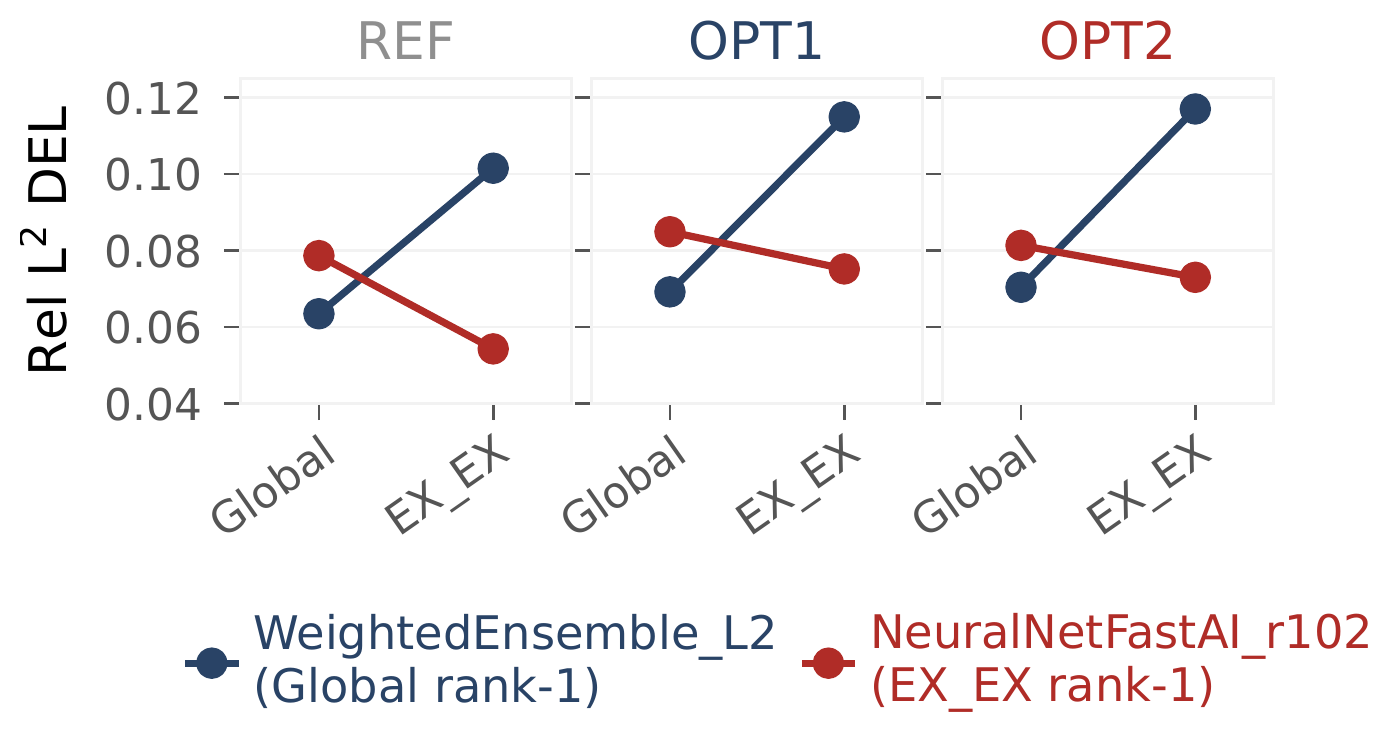
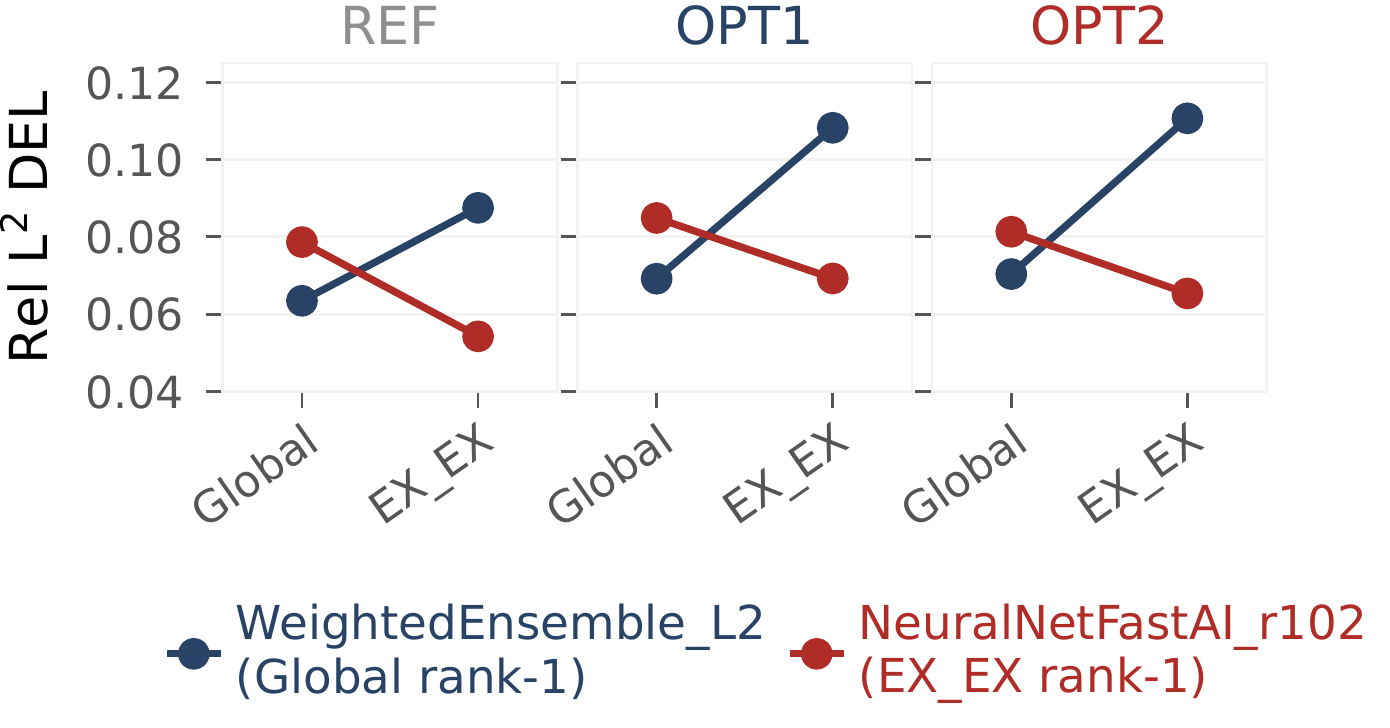
Partition sweep with alpha 1; README results for dataset v1.1
- Add alpha = 1 to the one-at-a-time partition sweep: the first value
  above the stable range [0.05, 0.3] that changes the labels (14 test
  simulations at the interior 17.5 m/s wind level enter EX_EX).
- The boundary tolerance is in standardized units (docstring and log).
- README: expected values of the analyses and the headline ranks for
  the standardized partition of dataset v1.1; crossover and partition
  figures redrawn from the same results.

Claude-Session: https://claude.ai/code/session_01MxosLyWuifHFzhZHWA7uwp

diff --git a/floatbench/analysis/partition.py b/floatbench/analysis/partition.py
@@ -40,7 +40,7 @@ PAPER_PARTITION = {
 
 # One-at-a-time sweeps around PAPER_PARTITION.
 PARTITION_SWEEPS = {
-    "alpha": [0.05, 0.075, 0.1, 0.15, 0.2, 0.3, 10.0],
+    "alpha": [0.05, 0.075, 0.1, 0.15, 0.2, 0.3, 1.0, 10.0],
     "edge": [0.25, 0.375, 0.5, 0.75, 1.0],
     "offset_mult": [0.0, 0.5, 1.0, 1.5, 2.0],
     "scale_stat": ["mean", "median"],
@@ -215,7 +215,8 @@ def boundary_tolerance(train_sims: pd.DataFrame,
         test_sims: Test simulations (one row per ``sim_id``).
 
     Returns:
-        ``{"wind": epsilon, "wave": epsilon}`` in original units.
+        ``{"wind": epsilon, "wave": epsilon}`` in standardized units, the
+        units of the hull distance.
     """
     grouper, _ = fit_released_grouper(train_sims, test_sims)
     edge = PAPER_PARTITION["edge"]

diff --git a/scripts/analyses/split_sensitivity/run.py b/scripts/analyses/split_sensitivity/run.py
@@ -97,7 +97,7 @@ def main(_) -> None:
     train, test = partition.load_sims(FLAGS.data_dir, FLAGS.tower)
     eps = partition.boundary_tolerance(train, test)
     logging.info(
-        "Boundary tolerance epsilon: wind %.3f, wave %.3f (original "
+        "Boundary tolerance epsilon: wind %.3f, wave %.3f (standardized "
         "units)", eps["wind"], eps["wave"])
 
     rows, base = [], None

diff --git a/README.md b/README.md
@@ -420,8 +420,9 @@ depend on the units:
   (default 1.0) scales $\varepsilon$.
 - **Spacing statistic** `scale_stat="mean"`.
 
-Dataset v1.0 fitted the hull and measured the boundary distance in the
-original feature units while $\varepsilon$ used the standardized
+Dataset v1.1 (current release) uses this partition. Dataset v1.0
+fitted the hull and measured the boundary distance in the original
+feature units while $\varepsilon$ used the standardized
 spacing. That partition is kept as `boundary_space="original"`
 (`--boundary_space=original` in `scripts/split/config.cfg`) to
 reproduce the v1.0 labels exactly. The two partitions differ in 98 of
@@ -484,13 +485,13 @@ In the table, `<name>` stands for
 | Analysis | Command | Main outputs and expected values |
 | --- | --- | --- |
 | Condition-level bootstrap: top-10 CIs and paired rank-1 vs rank-2 | `cluster_bootstrap` | `cluster_top10.csv`, `paired_top2.csv`. Paired interval above zero on 6 of 9 groups; tied on E2 REF $[-0.0008, 0.0010]$, E1 OPT1, E3 REF+OPT2→OPT1. Row-level std smaller by a median 4.8× / 8.3× / 4.2× (E1 / E2 / E3). |
-| Partition label stability | `split_sensitivity` | `sensitivity_results.csv`: 100% reproduction of the released labels, $\varepsilon$ = 0.049 (wind) / 0.021 (wave); agreement ≥ 97.9% and EX_EX Jaccard ≥ 0.90 for $\alpha \in [0.05, 0.3]$; tolerance removed: 254 → 361 EX_EX simulations. |
-| Crossover over the 15 partition variants | `ranking_stability` | `summary.csv`: crossover 15/15 on every tower and metric; ensemble EX_EX rank 23 / 11 / 11 (Rel L² DEL); EX_EX rank-1 `NeuralNetFastAI_r102_BAG_L1` at global ranks 79 / 73 / 69; min Kendall τ 0.89 / 0.90 / 0.92. |
+| Partition label stability | `split_sensitivity` | `sensitivity_results.csv`: 100% reproduction of the released v1.1 labels, $\varepsilon$ = 0.049 (wind) / 0.021 (wave) in standardized units; labels unchanged for $\alpha \in [0.05, 0.3]$; $\alpha = 1$ adds 14 simulations to EX_EX (216 → 230); tolerance removed: 216 → 340 EX_EX simulations. |
+| Crossover over the 16 partition variants | `ranking_stability` | `summary.csv`: crossover 16/16 on every tower and metric; ensemble EX_EX rank 21 / 11 / 13 (Rel L² DEL); EX_EX rank-1 `NeuralNetFastAI_r102_BAG_L1` at global ranks 79 / 73 / 69; min Kendall τ 0.87 / 0.82 / 0.82. |
 | Alternative held-out grids | `grid_variants_split`, then **trains** (below), then `grid_variants` with `--variant=A` and `--variant=B` | `summary_{A,B}.csv`: grid A EX_EX rank 20 / 37 of the global rank-1; grid B deep corner ensemble rank 7 / 9, rank-1 `NeuralNetFastAI_r191_BAG_L1` (0.0744 / 0.932). |
 | Condition-grouped random split | `grouped_random_split`, then **trains** (below), then `grouped_random` | 78.6% seed sharing in E1; `summary.csv`: ensemble Rel L² DEL 0.0191 (E1) vs 0.0198 (grouped, 0.0198 to 0.0201 over three draws). |
-| Selection regret | `selection` | `selection_analysis.csv`: validation pick leaves 0.033 / 0.015 / 0.027 of EX_EX damage R²; 1.87× / 1.53× / 1.60× the best EX_EX Rel L² DEL. |
-| Mechanism | `mechanism` | `mechanism_*.csv`: ensemble weight on trees 87.5% / 87.5% / 85.7% (needs the trained `best` predictors, loaded on CPU); median EX_EX bias trees −0.061 / −0.164 / −0.202; 8 / 6 / 8 networks in the EX_EX top-10. |
-| Classical and standalone baselines | **trains**: `baselines_classical` (CPU) and `baselines_modern` (GPU); then `baselines` | `baselines_global_exex.csv`, `baselines_per_regime.csv`, `tabpfn_in_pool.csv`: e.g. GP EX_EX Rel L² DEL 0.307 / 0.340 / 0.335; TabPFN damage-R² ranks 77 / 10 / 5 (global), 79 / 10 / 7 (EX_EX). |
+| Selection regret | `selection` | `selection_analysis.csv`: validation pick leaves 0.020 / 0.013 / 0.027 of EX_EX damage R²; 1.61× / 1.56× / 1.69× the best EX_EX Rel L² DEL. |
+| Mechanism | `mechanism` | `mechanism_*.csv`: ensemble weight on trees 87.5% / 87.5% / 85.7% (needs the trained `best` predictors, loaded on CPU); median EX_EX bias trees −0.098 / −0.188 / −0.224; 7 / 6 / 8 networks in the EX_EX top-10. |
+| Classical and standalone baselines | **trains**: `baselines_classical` (CPU) and `baselines_modern` (GPU); then `baselines` | `baselines_global_exex.csv`, `baselines_per_regime.csv`, `tabpfn_in_pool.csv`: e.g. GP EX_EX Rel L² DEL 0.314 / 0.347 / 0.342; TabPFN damage-R² ranks 77 / 10 / 5 (global), 70 / 12 / 7 (EX_EX). |
 | Raw time-series label audit | `audit` with `--package_dir=<audit_package>` | 4,410 labels of 147 simulations reproduced; maximum relative deviation 4.6e-16 (criterion ≤ 1e-6). See [`scripts/analyses/audit/README.md`](./scripts/analyses/audit/README.md). |
 
 Training commands for the retraining analyses (benchmark settings, 4 h
@@ -532,7 +533,7 @@ extrapolation regime.** EX_EX (extrapolation on both wind and wave) is
 the deepest extrapolation cell and has the highest error on every tower.
 Ranking on all test points (Global) versus on EX_EX points only gives
 different winners on every tower: the Global rank-1
-`WeightedEnsemble_L2` drops to EX_EX ranks 23 / 11 / 11
+`WeightedEnsemble_L2` drops to EX_EX ranks 21 / 11 / 13
 (REF / OPT1 / OPT2), while the EX_EX rank-1
 `NeuralNetFastAI_r102_BAG_L1` sits at Global ranks 79 / 73 / 69. The
 crossover holds under every tested partition setting that keeps an
